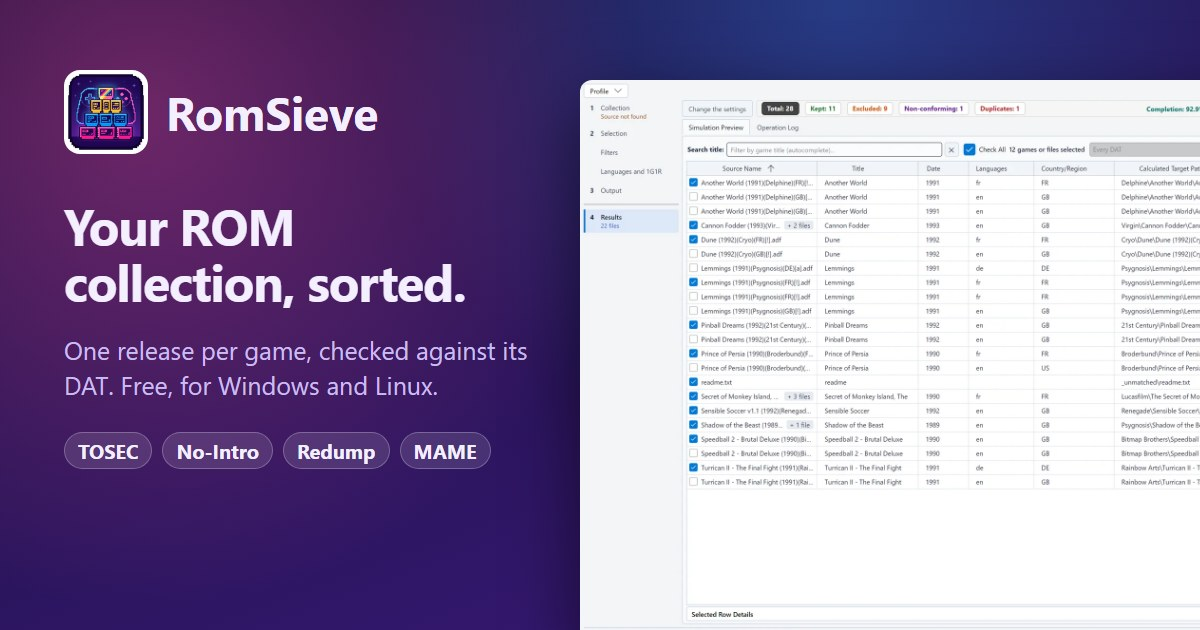
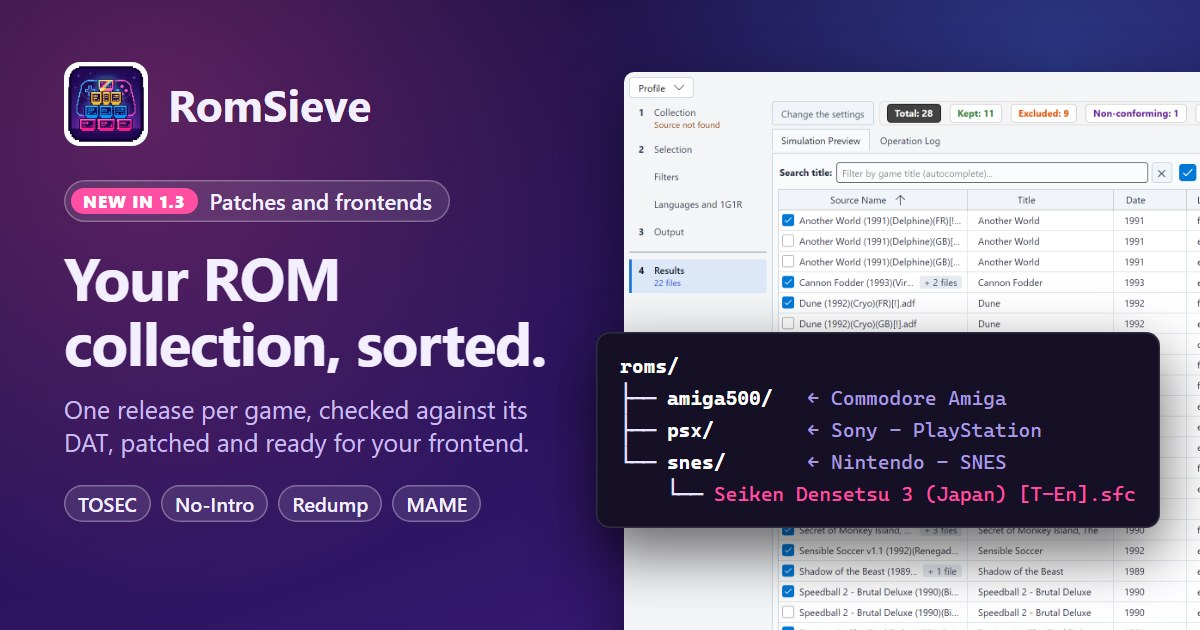
Feature the patches and the frontends of 1.3 on the home page of the website, in its description and its social preview

diff --git a/site/fr/index.html b/site/fr/index.html
@@ -4,7 +4,7 @@
   <meta charset="utf-8">
   <meta name="viewport" content="width=device-width, initial-scale=1">
   <title>RomSieve : triez vos collections de ROMs</title>
-  <meta name="description" content="Triez vos collections de ROMs avec leur DAT (TOSEC, No-Intro, Redump, MAME), gardez la meilleure version de chaque jeu et une arborescence propre. Gratuit, Windows et Linux.">
+  <meta name="description" content="Triez vos ROMs avec leur DAT (TOSEC, No-Intro, Redump, MAME) : la meilleure version de chaque jeu, vos patchs appliqués, votre frontend rempli. Gratuit, Windows et Linux.">
   <link rel="canonical" href="https://madvintager.github.io/RomSieve/fr/">
   <link rel="alternate" hreflang="en" href="https://madvintager.github.io/RomSieve/">
   <link rel="alternate" hreflang="fr" href="https://madvintager.github.io/RomSieve/fr/">
@@ -13,21 +13,21 @@
   <meta property="og:type" content="website">
   <meta property="og:site_name" content="RomSieve">
   <meta property="og:title" content="RomSieve : triez vos collections de ROMs">
-  <meta property="og:description" content="Triez vos collections de ROMs avec leur DAT (TOSEC, No-Intro, Redump, MAME), gardez la meilleure version de chaque jeu et une arborescence propre. Gratuit, Windows et Linux.">
+  <meta property="og:description" content="Triez vos ROMs avec leur DAT (TOSEC, No-Intro, Redump, MAME) : la meilleure version de chaque jeu, vos patchs appliqués, votre frontend rempli. Gratuit, Windows et Linux.">
   <meta property="og:url" content="https://madvintager.github.io/RomSieve/fr/">
   <meta property="og:locale" content="fr_FR">
   <meta property="og:locale:alternate" content="en_US">
   <meta property="og:image" content="https://madvintager.github.io/RomSieve/social.jpg">
   <meta property="og:image:width" content="1200">
   <meta property="og:image:height" content="630">
-  <meta property="og:image:alt" content="RomSieve, le gestionnaire de collections de ROMs pour Windows et Linux">
+  <meta property="og:image:alt" content="RomSieve, le gestionnaire de collections de ROMs pour Windows et Linux : sa table de simulation, et le dossier des ROMs d'un frontend avec un jeu patché">
   <meta name="twitter:card" content="summary_large_image">
   <script type="application/ld+json">
   {
     "@context": "https://schema.org",
     "@type": "SoftwareApplication",
     "name": "RomSieve",
-    "description": "Triez vos collections de ROMs avec leur DAT (TOSEC, No-Intro, Redump, MAME), gardez la meilleure version de chaque jeu et une arborescence propre. Gratuit, Windows et Linux.",
+    "description": "Triez vos ROMs avec leur DAT (TOSEC, No-Intro, Redump, MAME) : la meilleure version de chaque jeu, vos patchs appliqués, votre frontend rempli. Gratuit, Windows et Linux.",
     "url": "https://madvintager.github.io/RomSieve/fr/",
     "inLanguage": "fr",
     "applicationCategory": "UtilitiesApplication",
@@ -64,6 +64,7 @@
       </div>
 
       <div class="hero-text">
+        <a class="new-badge" href="#nouveau"><span class="pill">Nouveau en 1.3</span>Patchs et frontends →</a>
         <h1>Votre collection de ROMs, enfin triée.</h1>
         <p class="lead">RomSieve vérifie vos jeux avec leur DAT, garde la meilleure version de chacun dans vos
           langues et reconstruit une arborescence propre. Vous voyez chaque opération avant qu'un seul fichier ne
@@ -87,6 +88,71 @@
   </header>
 
   <main>
+    <section class="new" id="nouveau">
+      <div class="wrap">
+        <span class="kicker">Nouveau dans la version 1.3</span>
+        <h2>Des jeux patchés, prêts pour votre frontend</h2>
+        <p class="section-lead">Appliquez vos traductions, corrections et hacks sans toucher à une seule ROM, et
+          écrivez la collection directement dans le dossier des ROMs de Batocera, RetroPie, ES-DE, Recalbox ou
+          MiSTer.</p>
+
+        <div class="feature">
+          <div class="feature-text">
+            <h3>Vos patchs, appliqués</h3>
+            <p>Indiquez à RomSieve un dossier de patchs IPS, UPS ou BPS, à plat ou dans des archives. Chaque patch dont
+              la ROM d'origine est dans votre collection donne une version patchée, un nouveau fichier : ni la ROM
+              d'origine ni le patch ne sont jamais modifiés.</p>
+            <ul>
+              <li>UPS et BPS rapprochés par la somme de contrôle qu'ils enregistrent, IPS par le CRC32 de leur nom ou
+                de leur readme, avec ou sans en-tête copieur.</li>
+              <li>La fenêtre Patchs montre tous les patchs : choisissez la ROM d'un IPS, passez en revue les
+                suggestions ou écartez un patch. RomSieve retient vos choix.</li>
+              <li>La traduction d'une version japonaise est appliquée même quand le 1G1R en garde une autre, à côté de
+                son origine ou dans son propre dossier.</li>
+            </ul>
+            <p class="more"><a href="../guide/fr/patches.html">Les patchs dans le guide</a></p>
+          </div>
+          <picture class="screenshot">
+            <source type="image/webp" srcset="../images/fr/patches_window_dark.webp" media="(prefers-color-scheme: dark)">
+            <img src="../images/fr/patches_window.webp" width="1200" height="816" loading="lazy"
+              alt="La fenêtre Patchs : les patchs groupés par état, et les ROMs proposées pour un patch IPS">
+          </picture>
+        </div>
+
+        <div class="feature flip">
+          <div class="feature-text">
+            <h3>Directement dans votre frontend</h3>
+            <ul class="chips" aria-label="Frontends pris en charge">
+              <li>Batocera</li>
+              <li>RetroPie</li>
+              <li>ES-DE</li>
+              <li>Recalbox</li>
+              <li>MiSTer</li>
+            </ul>
+            <p>Choisissez votre frontend et la destination devient son dossier des ROMs : chaque DAT va dans le dossier
+              que le frontend donne à sa plateforme, pour une soixantaine de plateformes. Un pack de DAT entier le
+              remplit en un passage.</p>
+            <ul>
+              <li>Les réglages de sortie que le frontend lit le mieux, proposés en un clic.</li>
+              <li>Les jeux multi-disques comme il les attend : une playlist qu'ES-DE lit comme un seul jeu, un
+                dossier par jeu sur disque pour MiSTer.</li>
+              <li>Un avertissement pour les archives que le frontend ne lirait pas.</li>
+            </ul>
+            <p class="more"><a href="../guide/fr/destination-and-transfers.html#pour-un-frontend">Les frontends dans le guide</a></p>
+          </div>
+          <pre class="tree" aria-label="Un dossier des ROMs de Batocera écrit par RomSieve"><span class="folder">roms/</span>
+├── <span class="folder">amiga500/</span>    <span class="dat">← Commodore Amiga</span>
+├── <span class="folder">amiga1200/</span>   <span class="dat">← ses versions AGA</span>
+├── <span class="folder">megadrive/</span>   <span class="dat">← Sega - Mega Drive - Genesis</span>
+├── <span class="folder">psx/</span>         <span class="dat">← Sony - PlayStation</span>
+└── <span class="folder">snes/</span>        <span class="dat">← Nintendo - Super Nintendo…</span>
+    ├── Chrono Trigger (USA).sfc
+    ├── Seiken Densetsu 3 (Japan).sfc
+    └── <span class="added">Seiken Densetsu 3 (Japan) [T-En].sfc</span></pre>
+        </div>
+      </div>
+    </section>
+
     <section>
       <div class="wrap">
         <h2>Tous les standards de préservation</h2>
@@ -209,7 +275,8 @@
         </ul>
         <div class="terminal" aria-label="Exemple de ligne de commande">
           <div><span class="prompt">$ </span>romsieve-cli run --profile "Amiga 1G1R"</div>
-          <div><span class="prompt">$ </span>romsieve-cli run --dat ~/dats/No-Intro --dat-recursive --execute</div>
+          <div><span class="prompt">$ </span>romsieve-cli run --dat ~/dats/No-Intro --frontend batocera --execute</div>
+          <div><span class="prompt">$ </span>romsieve-cli run --patches ~/patchs --patch-only --execute</div>
           <div><span class="prompt">$ </span>romsieve-cli undo --yes</div>
         </div>
         <p>La ligne de commande, <code>romsieve-cli</code>, exécute le même tri avec les mêmes garde-fous, pour les

diff --git a/site/index.html b/site/index.html
@@ -4,7 +4,7 @@
   <meta charset="utf-8">
   <meta name="viewport" content="width=device-width, initial-scale=1">
   <title>RomSieve: sort your ROM collections</title>
-  <meta name="description" content="Sort ROM collections against their DAT (TOSEC, No-Intro, Redump, MAME), keep the best release of each game and rebuild a clean folder tree. Free, for Windows and Linux.">
+  <meta name="description" content="Sort ROMs against their DAT (TOSEC, No-Intro, Redump, MAME), keep the best release of each game, apply your patches and fill your frontend. Free, for Windows and Linux.">
   <link rel="canonical" href="https://madvintager.github.io/RomSieve/">
   <link rel="alternate" hreflang="en" href="https://madvintager.github.io/RomSieve/">
   <link rel="alternate" hreflang="fr" href="https://madvintager.github.io/RomSieve/fr/">
@@ -13,21 +13,21 @@
   <meta property="og:type" content="website">
   <meta property="og:site_name" content="RomSieve">
   <meta property="og:title" content="RomSieve: sort your ROM collections">
-  <meta property="og:description" content="Sort ROM collections against their DAT (TOSEC, No-Intro, Redump, MAME), keep the best release of each game and rebuild a clean folder tree. Free, for Windows and Linux.">
+  <meta property="og:description" content="Sort ROMs against their DAT (TOSEC, No-Intro, Redump, MAME), keep the best release of each game, apply your patches and fill your frontend. Free, for Windows and Linux.">
   <meta property="og:url" content="https://madvintager.github.io/RomSieve/">
   <meta property="og:locale" content="en_US">
   <meta property="og:locale:alternate" content="fr_FR">
   <meta property="og:image" content="https://madvintager.github.io/RomSieve/social.jpg">
   <meta property="og:image:width" content="1200">
   <meta property="og:image:height" content="630">
-  <meta property="og:image:alt" content="RomSieve, the ROM collection organizer for Windows and Linux">
+  <meta property="og:image:alt" content="RomSieve, the ROM collection organizer for Windows and Linux: its simulation table, and a frontend ROM folder holding a patched game">
   <meta name="twitter:card" content="summary_large_image">
   <script type="application/ld+json">
   {
     "@context": "https://schema.org",
     "@type": "SoftwareApplication",
     "name": "RomSieve",
-    "description": "Sort ROM collections against their DAT (TOSEC, No-Intro, Redump, MAME), keep the best release of each game and rebuild a clean folder tree. Free, for Windows and Linux.",
+    "description": "Sort ROMs against their DAT (TOSEC, No-Intro, Redump, MAME), keep the best release of each game, apply your patches and fill your frontend. Free, for Windows and Linux.",
     "url": "https://madvintager.github.io/RomSieve/",
     "inLanguage": "en",
     "applicationCategory": "UtilitiesApplication",
@@ -64,6 +64,7 @@
       </div>
 
       <div class="hero-text">
+        <a class="new-badge" href="#new"><span class="pill">New in 1.3</span>Patches and frontends →</a>
         <h1>Your ROM collection, sorted.</h1>
         <p class="lead">RomSieve checks your games against their DAT, keeps the best release of each one in your
           languages, and rebuilds a clean folder tree. You see every move before a single file is touched.</p>
@@ -86,6 +87,69 @@
   </header>
 
   <main>
+    <section class="new" id="new">
+      <div class="wrap">
+        <span class="kicker">New in version 1.3</span>
+        <h2>Patched games, ready for your frontend</h2>
+        <p class="section-lead">Apply your translations, fixes and hacks without touching a single ROM, and write the
+          collection straight into the ROM folder of Batocera, RetroPie, ES-DE, Recalbox or MiSTer.</p>
+
+        <div class="feature">
+          <div class="feature-text">
+            <h3>Your patches, applied</h3>
+            <p>Point RomSieve to a folder of IPS, UPS or BPS patches, loose or in archives. Each patch whose original
+              ROM is in your collection gives a patched version, a new file: the original ROM and the patch are never
+              modified.</p>
+            <ul>
+              <li>UPS and BPS matched by the checksum they record, IPS by the CRC32 in their name or their readme,
+                copier header or not.</li>
+              <li>The Patches window shows every patch: choose the ROM of an IPS, review the suggestions or set a
+                patch aside. RomSieve remembers your choices.</li>
+              <li>A translation of a Japanese release is applied even when 1G1R keeps another one, next to its
+                original or in a folder of its own.</li>
+            </ul>
+            <p class="more"><a href="guide/en/patches.html">Patches in the guide</a></p>
+          </div>
+          <picture class="screenshot">
+            <source type="image/webp" srcset="images/patches_window_dark.webp" media="(prefers-color-scheme: dark)">
+            <img src="images/patches_window.webp" width="1200" height="816" loading="lazy"
+              alt="The Patches window: the patches grouped by state, and the ROMs proposed for an IPS patch">
+          </picture>
+        </div>
+
+        <div class="feature flip">
+          <div class="feature-text">
+            <h3>Straight into your frontend</h3>
+            <ul class="chips" aria-label="Supported frontends">
+              <li>Batocera</li>
+              <li>RetroPie</li>
+              <li>ES-DE</li>
+              <li>Recalbox</li>
+              <li>MiSTer</li>
+            </ul>
+            <p>Choose your frontend and the destination becomes its ROM folder: each DAT goes into the folder the
+              frontend gives its platform, for about sixty platforms. A whole pack of DATs fills it in one pass.</p>
+            <ul>
+              <li>The output settings the frontend reads best, offered in one click.</li>
+              <li>Multi-disk games as it expects them: a playlist ES-DE reads as one game, a folder per disc game
+                for MiSTer.</li>
+              <li>Warnings about the archives the frontend would not read.</li>
+            </ul>
+            <p class="more"><a href="guide/en/destination-and-transfers.html#for-a-frontend">Frontends in the guide</a></p>
+          </div>
+          <pre class="tree" aria-label="A Batocera ROM folder written by RomSieve"><span class="folder">roms/</span>
+├── <span class="folder">amiga500/</span>    <span class="dat">← Commodore Amiga</span>
+├── <span class="folder">amiga1200/</span>   <span class="dat">← its AGA releases</span>
+├── <span class="folder">megadrive/</span>   <span class="dat">← Sega - Mega Drive - Genesis</span>
+├── <span class="folder">psx/</span>         <span class="dat">← Sony - PlayStation</span>
+└── <span class="folder">snes/</span>        <span class="dat">← Nintendo - Super Nintendo…</span>
+    ├── Chrono Trigger (USA).sfc
+    ├── Seiken Densetsu 3 (Japan).sfc
+    └── <span class="added">Seiken Densetsu 3 (Japan) [T-En].sfc</span></pre>
+        </div>
+      </div>
+    </section>
+
     <section>
       <div class="wrap">
         <h2>Every preservation standard</h2>
@@ -206,7 +270,8 @@
         </ul>
         <div class="terminal" aria-label="Command line example">
           <div><span class="prompt">$ </span>romsieve-cli run --profile "Amiga 1G1R"</div>
-          <div><span class="prompt">$ </span>romsieve-cli run --dat ~/dats/No-Intro --dat-recursive --execute</div>
+          <div><span class="prompt">$ </span>romsieve-cli run --dat ~/dats/No-Intro --frontend batocera --execute</div>
+          <div><span class="prompt">$ </span>romsieve-cli run --patches ~/patches --patch-only --execute</div>
           <div><span class="prompt">$ </span>romsieve-cli undo --yes</div>
         </div>
         <p>The command line, <code>romsieve-cli</code>, runs the same sort with the same safeguards, for scripts and

diff --git a/site/site.css b/site/site.css
@@ -128,6 +128,36 @@ code {
   text-align: center;
 }
 
+/* Link of the banner to the new features of the version */
+.new-badge {
+  display: inline-flex;
+  align-items: center;
+  gap: 0.6rem;
+  margin-bottom: 1.2rem;
+  padding: 0.3rem 0.9rem 0.3rem 0.35rem;
+  border-radius: 999px;
+  font-size: 0.92rem;
+  color: var(--hero-text);
+  text-decoration: none;
+  background: rgba(255, 255, 255, 0.1);
+  box-shadow: inset 0 0 0 1px rgba(255, 255, 255, 0.25);
+}
+
+.new-badge:hover {
+  background: rgba(255, 255, 255, 0.16);
+}
+
+.new-badge .pill {
+  padding: 0.05rem 0.6rem;
+  border-radius: 999px;
+  font-size: 0.78rem;
+  font-weight: 700;
+  text-transform: uppercase;
+  letter-spacing: 0.04em;
+  color: var(--accent-text);
+  background: var(--accent);
+}
+
 .hero h1 {
   margin: 0 0 0.8rem;
   font-size: clamp(2rem, 5vw, 3.2rem);
@@ -281,6 +311,86 @@ h3 {
 
 .screenshot img {
   border: 1px solid var(--border);
+}
+
+/* New features of the version: a kicker above the title, the frontends as chips and a folder tree */
+.kicker {
+  display: inline-block;
+  margin-bottom: 0.4rem;
+  font-size: 0.85rem;
+  font-weight: 700;
+  text-transform: uppercase;
+  letter-spacing: 0.06em;
+  color: var(--accent);
+}
+
+section.new {
+  border-bottom: 1px solid var(--border);
+}
+
+section.new .section-lead {
+  margin-bottom: 3rem;
+}
+
+section.new .feature h3 {
+  margin-bottom: 0.6rem;
+  font-size: clamp(1.25rem, 2.5vw, 1.5rem);
+  line-height: 1.25;
+}
+
+.feature-text .more {
+  margin: 1rem 0 0;
+  font-weight: 600;
+}
+
+.chips,
+.feature .chips {
+  display: flex;
+  flex-wrap: wrap;
+  gap: 0.5rem;
+  margin: 0 0 1rem;
+  padding: 0;
+  list-style: none;
+}
+
+.feature .chips li + li {
+  margin-top: 0;
+}
+
+.chips li {
+  padding: 0.25rem 0.8rem;
+  border: 1px solid var(--border);
+  border-radius: 999px;
+  font-size: 0.9rem;
+  font-weight: 600;
+  background: var(--surface);
+}
+
+.tree {
+  overflow-x: auto;
+  margin: 0;
+  padding: 1.2rem 1.4rem;
+  border-radius: 10px;
+  font-family: ui-monospace, "Cascadia Mono", Consolas, "DejaVu Sans Mono", monospace;
+  font-size: 0.9rem;
+  line-height: 1.75;
+  white-space: pre;
+  color: #e9e4ff;
+  background: #151026;
+  box-shadow: var(--shadow);
+}
+
+.tree .folder {
+  color: #ffffff;
+  font-weight: 700;
+}
+
+.tree .dat {
+  color: #a99be0;
+}
+
+.tree .added {
+  color: #ff4fa3;
 }
 
 .checklist {

diff --git a/scripts/docs/site-images.py b/scripts/docs/site-images.py
@@ -17,6 +17,7 @@ SCREENSHOTS = {
     "simulation_preview": 1200,
     "1g1r_settings": 1200,
     "output_settings": 1200,
+    "patches_window": 1200,
 }
 
 # Size of the icon of the page: twice the 36 pixels it is shown at, and more than enough for a browser tab
